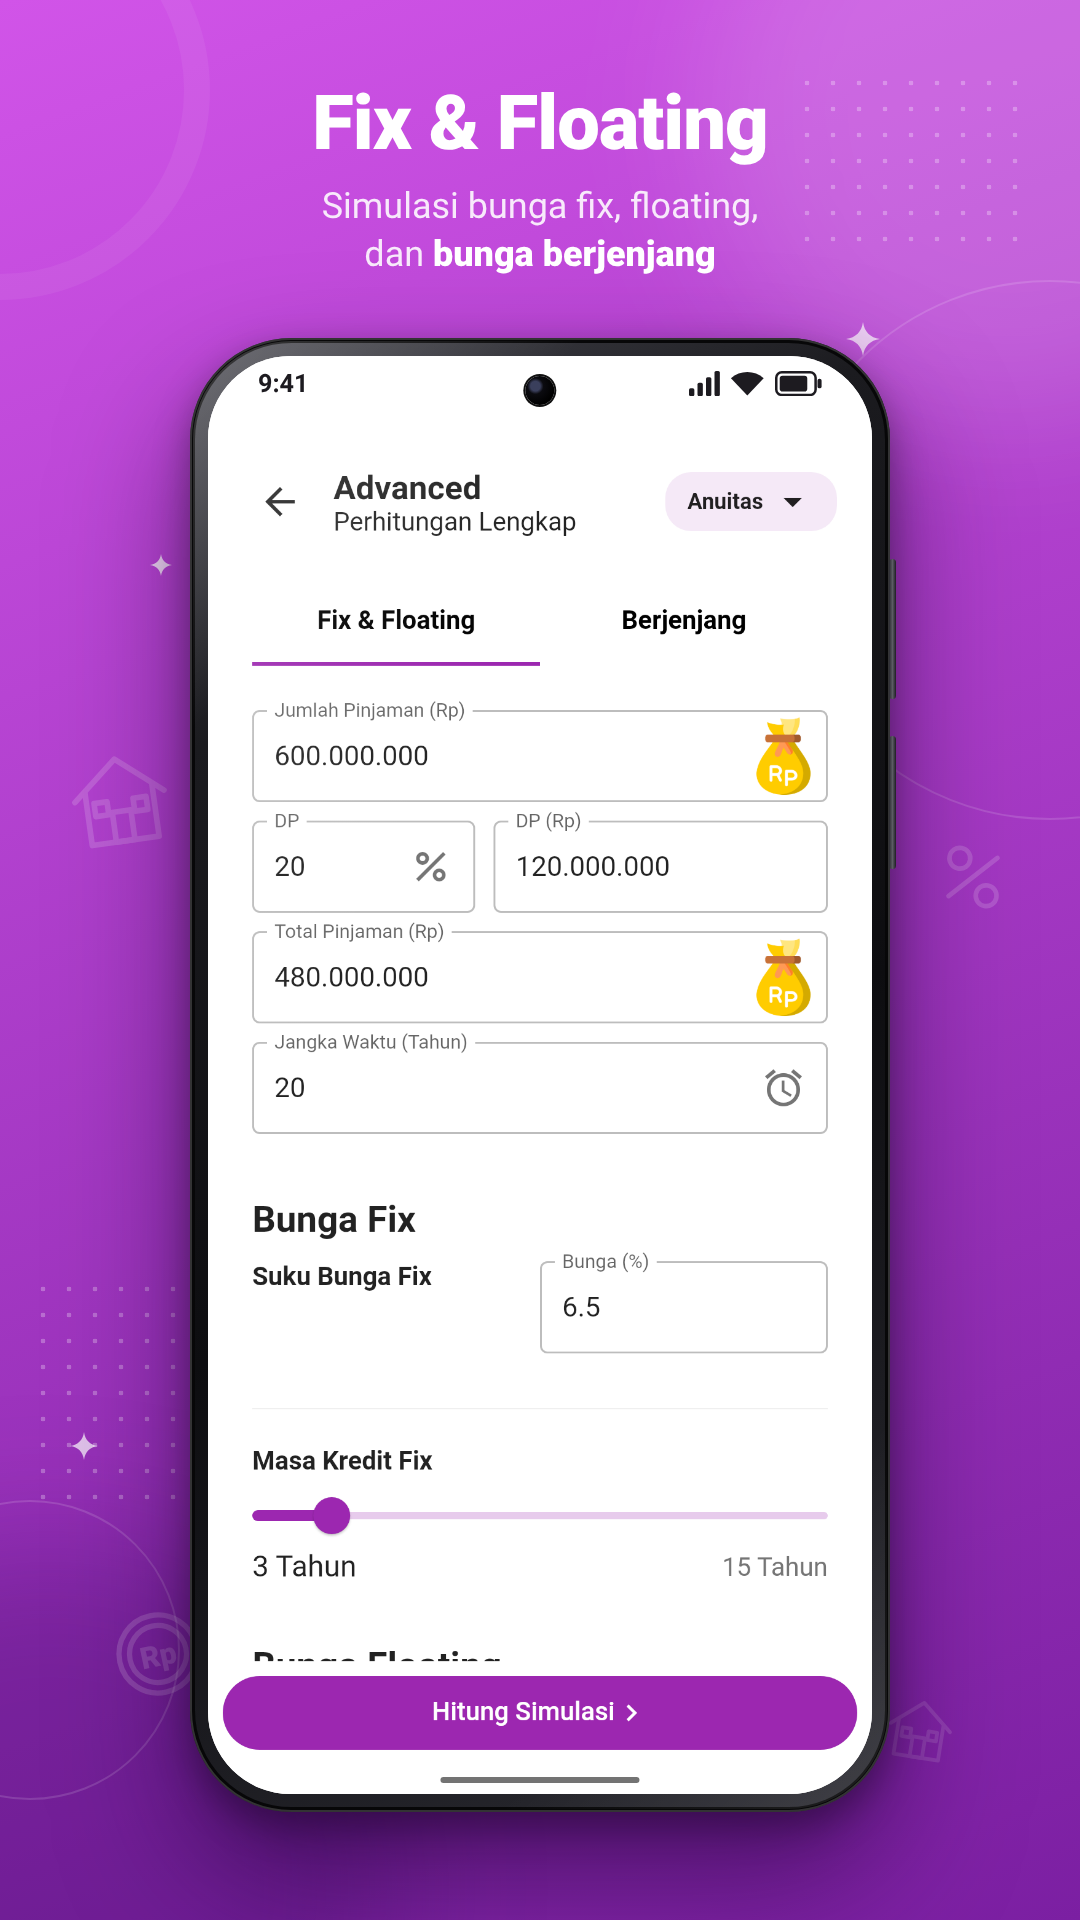
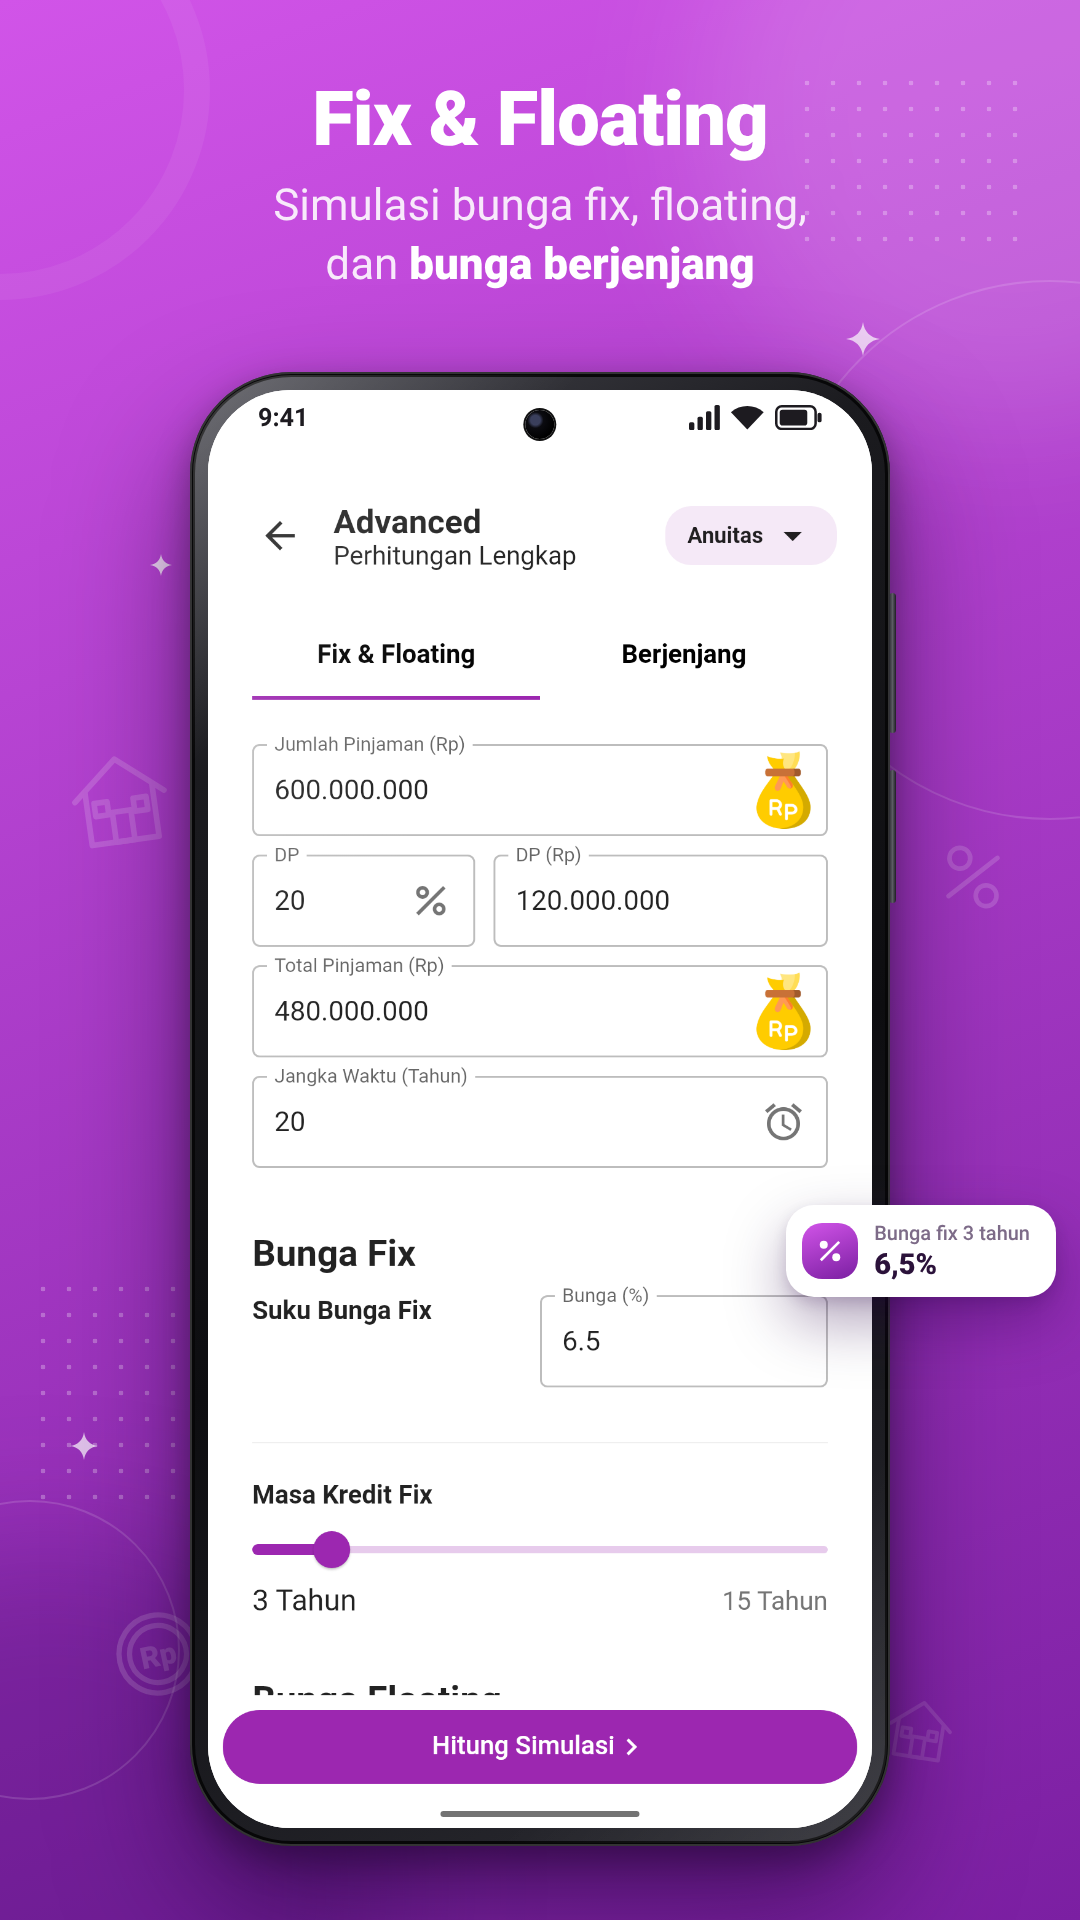
chore: aset store dengan subjudul lebih besar dan kartu melayang
Claude-Session: https://claude.ai/code/session_01YQzyrGfQwytNAYgmm4mQM1

diff --git a/store/source/gen.py b/store/source/gen.py
@@ -28,6 +28,17 @@ h1 { font-weight: 900; line-height: 1.05; letter-spacing: -1px; }
 .sub { font-weight: 400; color: rgba(255,255,255,.88); line-height: 1.35; }
 .hl { color: #fff; font-weight: 900; }
 
+/* ---------- kartu melayang ---------- */
+.float { position: absolute; z-index: 6; display: flex; align-items: center; gap: 16px;
+  padding: 16px 26px 16px 16px; border-radius: 28px; background: #fff; color: #2b123a;
+  box-shadow: 0 26px 60px rgba(40,0,70,.35), 0 6px 14px rgba(40,0,70,.15); }
+.float .ic { width: 56px; height: 56px; border-radius: 20px; flex: none;
+  display: flex; align-items: center; justify-content: center;
+  background: linear-gradient(160deg, #D154E8, #7B1FA2); }
+.float .ic svg { width: 30px; height: 30px; fill: #fff; }
+.float .t1 { font-size: 20px; color: #7d6b88; font-weight: 500; }
+.float .t2 { font-size: 29px; font-weight: 900; color: #2b123a; margin-top: 2px; }
+
 /* ---------- mockup HP ---------- */
 .phone { --w: 600px; position: absolute; width: var(--w);
   padding: calc(var(--w) * .026);
@@ -73,6 +84,25 @@ HOUSE = """<svg class="deco" style="{style}" viewBox="0 0 64 64" fill="none" str
 PERCENT = """<svg class="deco" style="{style}" viewBox="0 0 64 64" fill="none" stroke="#fff" stroke-width="4" stroke-linecap="round"><circle cx="18" cy="18" r="9"/><circle cx="46" cy="46" r="9"/><path d="M50 12 L14 52"/></svg>"""
 COIN = """<svg class="deco" style="{style}" viewBox="0 0 64 64" fill="none" stroke="#fff" stroke-width="3.5"><circle cx="32" cy="32" r="26"/><circle cx="32" cy="32" r="19"/><text x="32" y="40" text-anchor="middle" font-family="R" font-weight="900" font-size="20" fill="#fff" stroke="none">Rp</text></svg>"""
 SPARK = """<svg class="spark" style="{style}" viewBox="0 0 24 24"><path fill="currentColor" d="M12 0 C13 7 17 11 24 12 C17 13 13 17 12 24 C11 17 7 13 0 12 C7 11 11 7 12 0Z"/></svg>"""
+
+
+ICONS = {
+    'home': '<path d="M3 11 L12 3 L21 11 V21 H14.5 V15 H9.5 V21 H3Z"/>',
+    'layers': '<path d="M12 2 L22 7.5 L12 13 L2 7.5Z"/><path d="M4 11.3 L12 15.7 L20 11.3 L22 12.4 L12 18 L2 12.4Z"/><path d="M4 15.6 L12 20 L20 15.6 L22 16.7 L12 22.3 L2 16.7Z"/>',
+    'chart': '<rect x="3" y="12" width="4" height="9" rx="1"/><rect x="10" y="7" width="4" height="14" rx="1"/><rect x="17" y="3" width="4" height="18" rx="1"/>',
+    'pie': '<path d="M11 2.05 V13 H21.95 A10 10 0 1 1 11 2.05Z"/><path d="M13 2.05 A10 10 0 0 1 21.95 11 H13Z"/>',
+    'list': '<rect x="3" y="4" width="18" height="3" rx="1.5"/><rect x="3" y="10.5" width="18" height="3" rx="1.5"/><rect x="3" y="17" width="12" height="3" rx="1.5"/>',
+    'check': '<path d="M12 2 A10 10 0 1 1 11.99 2Z M10.2 15.6 L17.4 8.4 L15.9 7 L10.2 12.7 L7.6 10.1 L6.2 11.5Z" fill-rule="evenodd"/>',
+    'percent': '<circle cx="7" cy="7" r="3.2"/><circle cx="17" cy="17" r="3.2"/><path d="M18.6 3.9 L20.1 5.4 L5.4 20.1 L3.9 18.6Z"/>',
+    'wallet': '<path d="M3 6 A2 2 0 0 1 5 4 H18 V7 H5 V7.2 H20 A1 1 0 0 1 21 8.2 V19 A1 1 0 0 1 20 20 H5 A2 2 0 0 1 3 18Z M16 12.5 A1.6 1.6 0 1 0 16.01 12.5Z" fill-rule="evenodd"/>',
+    'pdf': '<path d="M6 2 H14 L20 8 V21 A1 1 0 0 1 19 22 H6 A1 1 0 0 1 5 21 V3 A1 1 0 0 1 6 2Z M13 3.5 V9 H18.5" fill-rule="evenodd"/>',
+    'save': '<path d="M6 3 H18 A1 1 0 0 1 19 4 V21 L12 17 L5 21 V4 A1 1 0 0 1 6 3Z"/>',
+}
+
+
+def floating(icon, label, value, style):
+    return f"""<div class="float" style="{style}"><div class="ic"><svg viewBox="0 0 24 24">{ICONS[icon]}</svg></div>
+<div><div class="t1">{label}</div><div class="t2">{value}</div></div></div>"""
 
 
 def phone(shot, width, style, rotate=0):
@@ -128,31 +158,51 @@ intro = f"""
     <img src="logo.png" style="width:84px;height:84px;border-radius:22px;background:#fff;box-shadow:0 14px 32px rgba(30,0,50,.3)">
     <h1 style="font-size:60px">Kalkulator KPR</h1>
   </div>
-  <p class="sub" style="font-size:36px;margin-top:24px">Simulasi cicilan rumah<br><b class="hl">cepat, lengkap & akurat</b></p>
+  <p class="sub" style="font-size:44px;margin-top:24px">Simulasi cicilan rumah<br><b class="hl">cepat, lengkap & akurat</b></p>
 </div>
-{phone('grafik', 580, 'left:430px;top:440px;z-index:2', 7)}
-{phone('home', 620, 'left:80px;top:390px;z-index:3', -5)}
+{phone('grafik', 580, 'left:430px;top:470px;z-index:2', 7)}
+{phone('home', 620, 'left:80px;top:420px;z-index:3', -5)}
+{floating('home', 'Angsuran per bulan', 'Rp 4.635.062', 'left:36px;top:1745px')}
+{floating('layers', 'Metode bunga', 'Anuitas · Efektif · Flat', 'right:36px;top:400px')}
 """
 write('slide_01.html', page(1080, 1920, intro))
 
 # ------------------------------------------------------------- slide fitur
 FEATURES = [
-    ('home', 'Tiga Metode Bunga', 'Anuitas, efektif, dan flat<br>cukup <b class="hl">satu ketukan</b>'),
-    ('grafik', 'Grafik Angsuran', 'Total bayar, sisa pinjaman, dan<br><b class="hl">pokok vs bunga</b> tiap tahun'),
-    ('tabel', 'Tabel Angsuran', 'Rincian pokok, bunga, dan sisa<br>pinjaman <b class="hl">sampai lunas</b>'),
-    ('daya_bayar', 'Cek Daya Bayar', 'Pastikan cicilan masih <b class="hl">aman</b><br>untuk penghasilan Anda'),
-    ('advanced', 'Fix & Floating', 'Simulasi bunga fix, floating,<br>dan <b class="hl">bunga berjenjang</b>'),
-    ('syariah', 'KPR Syariah', 'Akad <b class="hl">murabahah</b> &<br>musyarakah mutanaqisah'),
-    ('riwayat', 'Simpan Riwayat', 'Simpan simulasi, bandingkan,<br>lalu <b class="hl">ekspor ke PDF</b>'),
+    ('home', 'Tiga Metode Bunga', 'Anuitas, efektif, dan flat<br>cukup <b class="hl">satu ketukan</b>', [
+        ('layers', 'Pilih metode', 'Anuitas · Efektif · Flat', 'right:30px;top:600px'),
+        ('home', 'Angsuran per bulan', 'Rp 4.635.062', 'left:24px;top:1010px'),
+    ]),
+    ('grafik', 'Grafik Angsuran', 'Total bayar, sisa pinjaman, dan<br><b class="hl">pokok vs bunga</b> tiap tahun', [
+        ('pie', 'Porsi bunga', '40% dari total', 'right:24px;top:1345px'),
+    ]),
+    ('tabel', 'Tabel Angsuran', 'Rincian pokok, bunga, dan sisa<br>pinjaman <b class="hl">sampai lunas</b>', [
+        ('list', 'Rincian lengkap', '180 bulan', 'right:16px;top:1700px'),
+    ]),
+    ('daya_bayar', 'Cek Daya Bayar', 'Pastikan cicilan masih <b class="hl">aman</b><br>untuk penghasilan Anda', [
+        ('check', 'Rasio cicilan', '28,5% · Aman', 'right:24px;top:1450px'),
+    ]),
+    ('advanced', 'Fix & Floating', 'Simulasi bunga fix, floating,<br>dan <b class="hl">bunga berjenjang</b>', [
+        ('percent', 'Bunga fix 3 tahun', '6,5%', 'right:24px;top:1205px'),
+    ]),
+    ('syariah', 'KPR Syariah', 'Akad <b class="hl">murabahah</b> &<br>musyarakah mutanaqisah', [
+        ('home', 'Angsuran tetap', 'Rp 6.050.000', 'right:24px;top:1210px'),
+    ]),
+    ('riwayat', 'Simpan Riwayat', 'Simpan simulasi, bandingkan,<br>lalu <b class="hl">ekspor ke PDF</b>', [
+        ('save', 'Tersimpan', '3 simulasi', 'right:24px;top:600px'),
+        ('pdf', 'Bagikan', 'Ekspor ke PDF', 'left:30px;top:1660px'),
+    ]),
 ]
-for i, (shot, title, sub) in enumerate(FEATURES, start=2):
+for i, (shot, title, sub, floats) in enumerate(FEATURES, start=2):
+    cards = '\n'.join(floating(*f) for f in floats)
     body = f"""
 {decorations(i)}
-<div style="position:absolute;left:0;right:0;top:84px;text-align:center;z-index:5">
+<div style="position:absolute;left:0;right:0;top:80px;text-align:center;z-index:5">
   <h1 style="font-size:76px">{title}</h1>
-  <p class="sub" style="font-size:36px;margin-top:18px">{sub}</p>
+  <p class="sub" style="font-size:44px;margin-top:16px">{sub}</p>
 </div>
-{phone(shot, 700, 'left:190px;top:338px;z-index:3')}
+{phone(shot, 700, 'left:190px;top:372px;z-index:3')}
+{cards}
 """
     write(f'slide_{i:02d}.html', page(1080, 1920, body))
 
